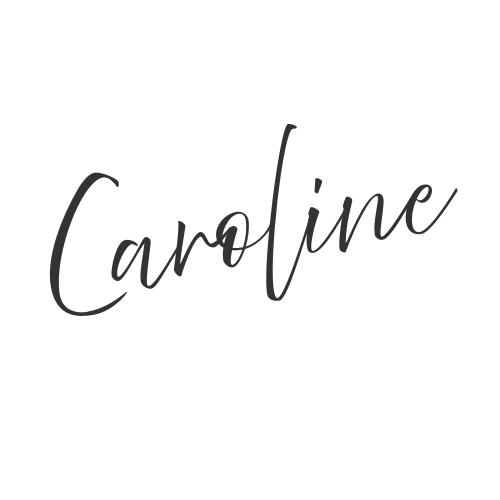
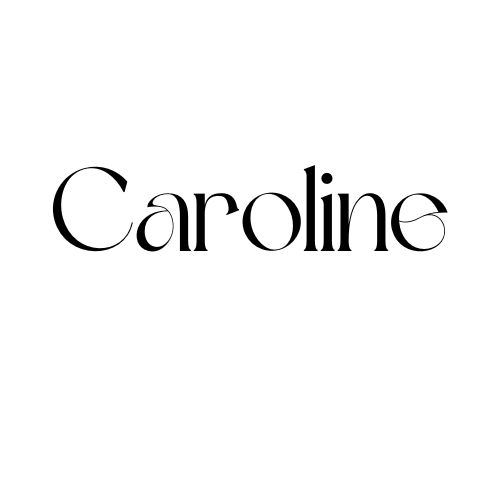
:construction: some new content for home

Changed region(s): [[0.09, 0.24, 0.9, 0.63], [0.9, 0.36, 0.93, 0.39]]

diff --git a/my-react-app/src/App.vue b/my-react-app/src/App.vue
@@ -4,8 +4,8 @@
 <!-- Home -->
   <section class="home" id="home">
     <div class="left-side">
-    <h1>Hey, I'm Caroline</h1>
-    <p>A frontend developer currently based in Stockholm</p>
+    <h1>Hey, I'm Car<span class="highlight-o">o</span>line</h1>
+    <p>A creative, fun and collaborative frontend developer currently based in Stockholm. I love clean design, solving problems, and bringing ideas to life with quality, dedication, and that last touch of care.</p>
   </div>
   <div class="right-side">
     <img src="./assets/images/portraitcircle.jpg">
@@ -72,20 +72,27 @@ html {
     display: flex;
     flex-direction: column;
     justify-content: flex-start;
+    text-align: left;
     align-items: flex-start;
+    max-width:400px;
   }
 
   .right-side{
     display: flex;
     flex-direction: column;
-    justify-content: flex-end;
+    justify-content: flex-start;
     align-items: center;
   }
 
   .right-side img {
-  width: 700px;
-  height: 700px;
+  width: 600px;
+  height: 600px;
   border-radius: 80%;
   object-fit: cover;
+}
+
+.highlight-o{
+  color:#7b66ff;
+
 }
 </style>

diff --git a/my-react-app/src/components/Navbar.vue b/my-react-app/src/components/Navbar.vue
@@ -1,6 +1,6 @@
 <template>
   <nav class="navbar">
-<!--     <img src="../assets/images/1.png" class="logo"> -->
+<!--   <img src="../assets/images/1.png" class="logo"> -->
     <ul class="menu">
       <li><a href="#home">Home</a></li>
       <li><a href="#projects">Projects</a></li>
@@ -31,28 +31,29 @@
 .menu {
   list-style: none;
   display: flex;
-  gap: 2rem;
+  gap: 3rem;
   margin: 0;
   padding: 0;
 }
 
 .menu a {
   text-decoration: none;
+  text-transform: uppercase;
   color: #000;
-  font-weight: 500;
+  font-weight: 200;
   font-size: 1.1rem;
   transition: color 0.3s ease, border-bottom 0.3s ease;
   padding-bottom: 3px;
 }
 
 .menu a:hover {
-  color: #000000;
+  color: #7b66ff;
   border-bottom: 1px solid #000000;
 }
 
-.logo {
+/* .logo {
   display: flex;
-  width: 130px;
-}
+  width: 150px;
+} */
 
 </style>

diff --git a/my-react-app/src/style.css b/my-react-app/src/style.css
@@ -1,5 +1,5 @@
 :root {
-  font-family: system-ui, Avenir, Helvetica, Arial, sans-serif;
+  font-family: Quicksand, sans-serif;
   line-height: 1.5;
   font-weight: 400;
 
@@ -15,7 +15,7 @@
 
 body {
   margin: 0;
-  font-family: system-ui, Avenir, Helvetica, Arial, sans-serif;
+  font-family: Quicksand, sans-serif;
   background-color: #ffffff;
   color: rgb(0, 0, 0);
   overflow-x: hidden;
@@ -66,7 +66,7 @@ h1, h2, p {
 }
 
 .social-bar a:hover {
-  background: #ffc396; 
+  background: #7b66ff; 
   color: white;
   transform: scale(1.15);
 }

diff --git a/my-react-app/src/components/Projects.vue b/my-react-app/src/components/Projects.vue
@@ -87,7 +87,7 @@ const projects = [
   grid-template-columns: repeat(3, 1fr);
   grid-template-rows: repeat(2, 1fr);
   gap: 1.5rem;
-  height: 80vh;
+  height: 50vh;
 }
 
 .project-card {
@@ -166,7 +166,6 @@ const projects = [
   background: #0097a7;
 }
 
-/* 📱 Mobilversion */
 @media (max-width: 900px) {
   .projects-grid {
     grid-template-columns: 1fr 1fr;

diff --git a/my-react-app/index.html b/my-react-app/index.html
@@ -3,6 +3,7 @@
   <head>
     <meta charset="UTF-8" />
     <link rel="icon" type="image/svg+xml" href="/vite.svg" />
+    <link href="https://fonts.googleapis.com/css2?family=Quicksand:wght@300..700&display=swap" rel="stylesheet">
     <link
   rel="stylesheet"
   href="https://cdnjs.cloudflare.com/ajax/libs/font-awesome/6.5.0/css/all.min.css"
